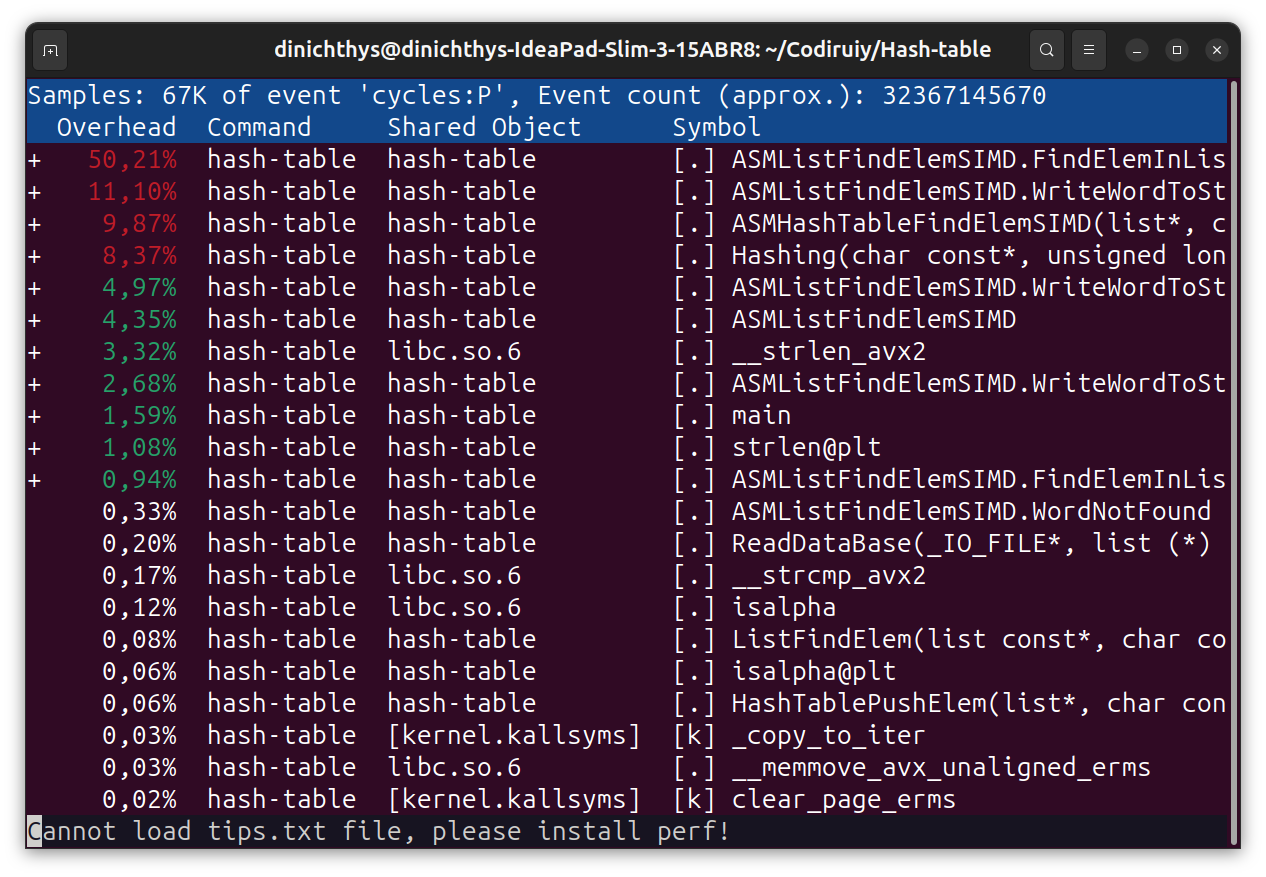
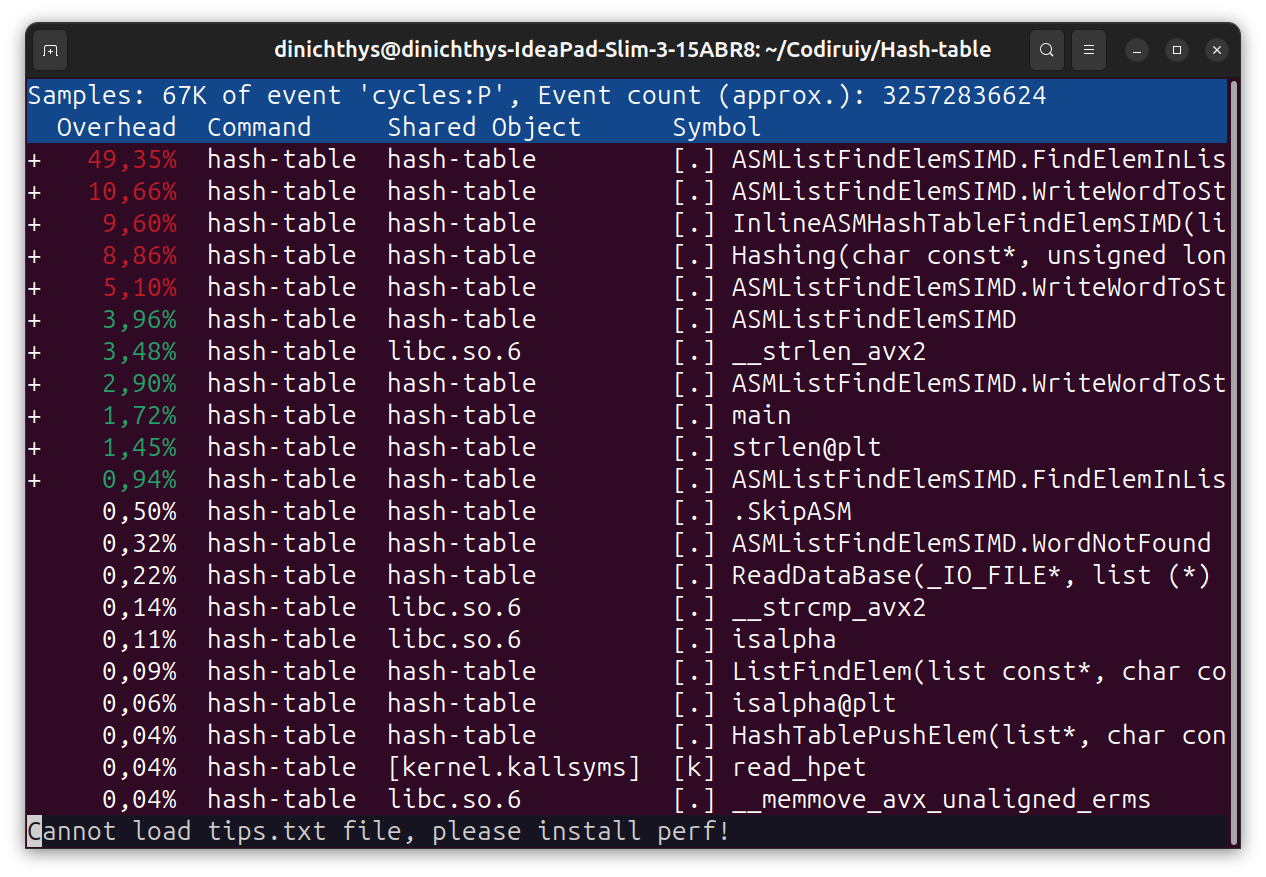
Выделил функции на скринах

diff --git a/main.cpp b/main.cpp
@@ -55,13 +55,13 @@ int main()
     //     cock_num       += HashTableFindElemSIMD (hash_table, "cock");
     // }
 
-    // for (size_t iteration = 0; iteration < kNumIteration; iteration++)
-    // {
-    //     the_num        += ASMHashTableFindElemSIMD (hash_table, "the");
-    //     Philosophy_num += ASMHashTableFindElemSIMD (hash_table, "Philosophy");
-    //     dragon_num     += ASMHashTableFindElemSIMD (hash_table, "dragon");
-    //     cock_num       += ASMHashTableFindElemSIMD (hash_table, "cock");
-    // }
+    for (size_t iteration = 0; iteration < kNumIteration; iteration++)
+    {
+        the_num        += ASMHashTableFindElemSIMD (hash_table, "the");
+        Philosophy_num += ASMHashTableFindElemSIMD (hash_table, "Philosophy");
+        dragon_num     += ASMHashTableFindElemSIMD (hash_table, "dragon");
+        cock_num       += ASMHashTableFindElemSIMD (hash_table, "cock");
+    }
 
     // for (size_t iteration = 0; iteration < kNumIteration; iteration++)
     // {

diff --git a/README.md b/README.md
@@ -103,7 +103,7 @@ sudo hotspot
     <tbody>
         <tr>
             <td align="center">
-            <img src="data/Perf1.png" alt="Фото">
+            <img src="data/Perf1_highlighted.png" alt="Фото">
             </td>
             <td align="center">
             <img src="data/FlameGraph1.png" alt="Фото">
@@ -206,7 +206,7 @@ signed long long ListFindElemSIMD (const list_t* const list, const char* const e
     <tbody>
         <tr>
             <td align="center">
-            <img src="data/Perf2.png" alt="Фото">
+            <img src="data/Perf2_highlighted.png" alt="Фото">
             </td>
             <td align="center">
             <img src="data/FlameGraph2.png" alt="Фото">
@@ -354,7 +354,7 @@ ASMListFindElemSIMD:
     <tbody>
         <tr>
             <td align="center">
-            <img src="data/Perf3.png" alt="Фото">
+            <img src="data/Perf3_highlighted.png" alt="Фото">
             </td>
             <td align="center">
             <img src="data/FlameGraph3.png" alt="Фото">
